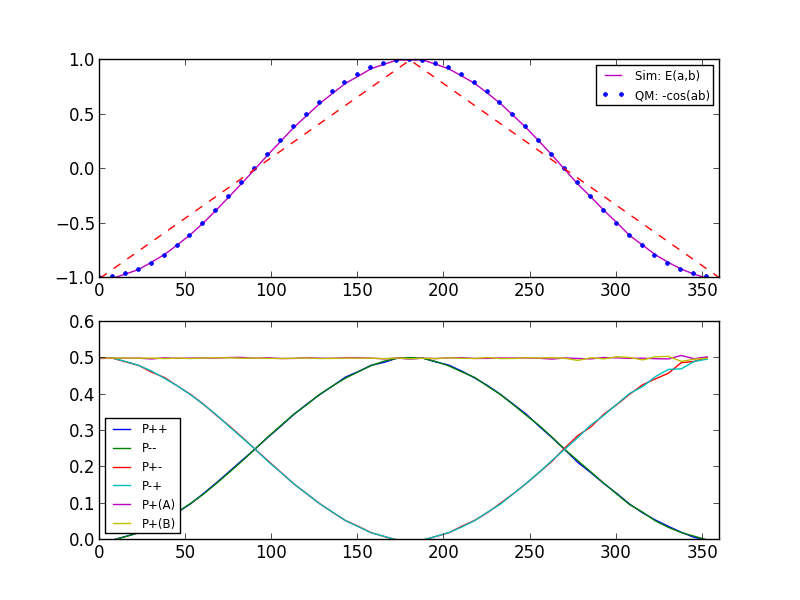
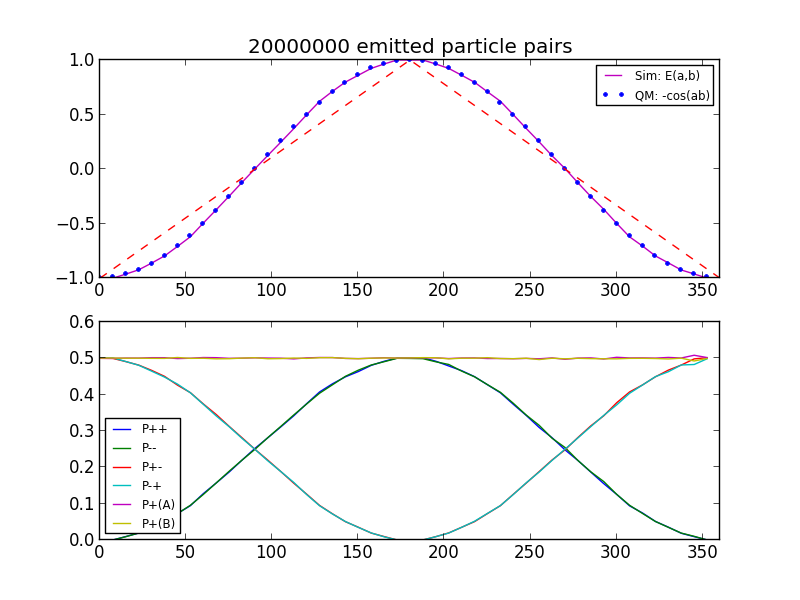
- further improved the p-distribution

diff --git a/epr.py b/epr.py
@@ -11,7 +11,8 @@ rcParams['legend.isaxes'] = False
 rcParams['figure.facecolor'] = 'white'
 rcParams['figure.edgecolor'] = 'white'
 
-NUM_ITERATIONS = 20000000
+NUM_ITERATIONS = 50000000
+MAX_ANGLE = 360.0
 ANGLE_RESOLUTION = 7.5
 
 class Source(object):
@@ -21,7 +22,8 @@ class Source(object):
         self.phase = self.spin*2*numpy.pi
         self.n = 2*self.spin
         self.angles = numpy.radians(numpy.arange(0, 360.0, ANGLE_RESOLUTION))  # pre-calculate angles to choose from 
-        self.ps = numpy.linspace(0, numpy.pi/4, 1000)**(numpy.pi/2) # pre-calculate p-values to choose from 
+        #self.ps = numpy.linspace(0, numpy.pi/4, 1000)**(numpy.pi/2) # pre-calculate p-values to choose from
+        self.ps = 0.5*numpy.sin(numpy.linspace(0, numpy.pi/2, 1000))**2 # alternate p-distribution
         
     def emit(self):
         e = numpy.random.choice(self.angles) # pick one of the angles randomly 
@@ -38,7 +40,7 @@ class Station(object):
         self.results = numpy.empty((NUM_ITERATIONS, 2))  # columns: angle, +1/-1/0 outcome        
         self.properties = numpy.empty((NUM_ITERATIONS, 2)) # columns: e, p
         self.count = 0
-        self.angles = numpy.radians(numpy.arange(0, 360.0, ANGLE_RESOLUTION)) # pre-calculate p-values to choose from
+        self.angles = numpy.radians(numpy.arange(0, MAX_ANGLE, ANGLE_RESOLUTION)) # pre-calculate p-values to choose from
         
     def get_setting(self):
         """Return the current detector setting"""
@@ -117,7 +119,7 @@ class Simulation(object):
         am = abdeg[sl_am]
         bm = abdeg[sl_bm]
         
-        x = numpy.arange(0.0, 360.0, ANGLE_RESOLUTION)
+        x = numpy.arange(0.0, MAX_ANGLE, ANGLE_RESOLUTION)
         ypp = numpy.zeros_like(x)
         ymm = numpy.zeros_like(x)
         ypm = numpy.zeros_like(x)
@@ -179,7 +181,8 @@ class Simulation(object):
         print "Same Angle <AB> = %+0.2f, QM = -1.00" % (ysame)
         print "Oppo Angle <AB> = %+0.2f, QM = +1.00" % (yopp)
         print "CHSH: < 2.0, Sim: %0.3f, QM: %0.3f" % (abs(CHSH[0]-CHSH[1]+CHSH[2]+CHSH[3]), abs(QM[0]-QM[1]+QM[2]+QM[3]))
-        print "Efficiency:  %0.1f %%" % (100.0*sl_dd.sum()/sl_sd.sum())  
+        print "Detector Efficiency:  %0.1f %%" % (100.0*sl_sd.mean())  
+        print "%% Coincidences:  %0.1f %%" % (100.0*sl_dd.sum()/sl_sd.sum())  
           
         gs = gridspec.GridSpec(2,1)
         ax1 = plt.subplot(gs[0])    
@@ -197,8 +200,8 @@ class Simulation(object):
         ax2.plot(x, ybp, label='P+(B)')
         ax2.legend()
         
-        for ax in [ax1, ax2]:  ax.set_xlim(0, 360)
-
+        for ax in [ax1, ax2]:  ax.set_xlim(0, MAX_ANGLE)
+        ax1.set_title('%d emitted particle pairs' % NUM_ITERATIONS)
         plt.savefig('epr.png', dpi=100)
         plt.show()
 

diff --git a/internals.py b/internals.py
@@ -113,8 +113,8 @@ def analyse():
     print "Same Angle <AB> = %+0.2f, QM = -1.00" % (ysame)
     print "Oppo Angle <AB> = %+0.2f, QM = +1.00" % (yopp)
     print "CHSH: < 2.0, Sim: %0.3f, QM: %0.3f" % (abs(CHSH[0]-CHSH[1]+CHSH[2]+CHSH[3]), abs(QM[0]-QM[1]+QM[2]+QM[3]))
-    print "Efficiency:  %0.1f %%" % (100.0*sl_dd.sum()/sl_sd.sum())  
     print "Detector Efficiency:  %0.1f %%" % (100.0*sl_sd.mean())  
+    print "%% Coincidences:  %0.1f %%" % (100.0*sl_dd.sum()/sl_sd.sum())  
             
     gs = gridspec.GridSpec(3,2)
     ax1 = plt.subplot(gs[0,:])    
@@ -133,8 +133,9 @@ def analyse():
     ax2.legend()
     
     ax3 =  plt.subplot(gs[1,1])       
-    ax3.plot(x, coinc, 'b--', label='% Coincidence')
-    ax3.plot(x, geff, 'r--', label='% Detector Efficiency')
+    ax3.plot(x, 100*coinc, 'b--', label='% Coincidence')
+    ax3.plot(x, 100*geff, 'r--', label='% Detector Efficiency')
+    ax3.set_ylim(0,105)
     ax3.legend()
     
     ax4 = plt.subplot(gs[2,:])

diff --git a/README.md b/README.md
@@ -7,11 +7,14 @@ How it works:
 ------------
 The simulation consists of a Source object, generating particle pairs, to be analyzed at 2 Detection stations. The maths of the model can be summarized as:  
 
-        λ = {e, p, s},  e ∈ [0..2π), p ∈ [0..π/4), s = {1/2, 1}
+        λ = {e, p, s},  e ∈ [0..2π), s = {1/2, 1}
+        p =  ½ sin²x, x ∈ [0..π/2)
         e' = e + 2πs
-        A(a,λ) = sign(-1ⁿ cos n(a − e)) if |cos n(a − e)| > pᵏ, 0 otherwise
-        B(b,λ) = sign(-1ⁿ cos n(b − e')) if |cos n(b − e')| > pᵏ, 0 otherwise
-        where n = 2s, k=π/2
+        A(a,λ) = sign(-1ⁿ cos n(a − e)) if |cos n(a − e)| > p, 0 otherwise
+        B(b,λ) = sign(-1ⁿ cos n(b − e')) if |cos n(b − e')| > p, 0 otherwise
+        where n = 2s
+        
+        Alternatively,  p = xᵏ, x ∈ [0..π/4), k=π/2 also works well.
 
 1) The Source, and Particles:
 
@@ -20,8 +23,8 @@ The source has a single parameter `spin (s)` which determines the type of partic
 
 A particle pair is generated as follows:  
 
-    `e` - an angle common to both particles selected randomly each time from the range [0, 2pi)
-    `p` - a property common to both particles selected randomly from [0, π/4)
+    `e` - an angle common to both particles selected randomly each time from the range [0, 2π)
+    `p` - a property common to both particles selected randomly from the distribution `½ sin²x, x ∈ [0..π/2)`
     
 The left particle is the tuple `(e, p, n)`
 The right particle is the tuple `(e + 2πs, p, n)`
@@ -38,8 +41,9 @@ The detection at each station proceeds as follows:
       ultimately determine which channel the particle will be detected at; `+1` or `-1`
     - The absolute value of `C` together with the particle property `p` will determine 
       if the particle goes through the filter.
-      If `|C|` > p^π/2 the particle goes through. Every particle which goes through the 
+      If `|C| > p` the particle goes through. Every particle which goes through the 
       filter is detected by one of the two channels.
+      
     - The setting `x` and the output (`+1`, `-1`, or `0`) are registered locally at each station
       and saved in separate files at the end of the simulation. Each station is not aware of and 
       uses no information from or about the other station. 
@@ -70,14 +74,14 @@ From these probabilities we can calcualte the Expectation value:
 
 The results are then plotted for every angle pair (a,b) in the range [0, 2π). A sample plot after 50,000,000 iterations is shown in `epr.png`. The output for the Bell-test angles (0, 22.5, 45, 67.5) are shown below:  
     
-    <a1b1>: E(  0.0, 22.5), AB=-0.92, QM=-0.92
-    <a2d2>: E(  0.0, 67.5), AB=-0.39, QM=-0.38
-    <c3b3>: E( 45.0, 22.5), AB=-0.92, QM=-0.92
-    <c4d4>: E( 45.0, 67.5), AB=-0.92, QM=-0.92
+<a1b1>: E(  0.0, 22.5), AB=-0.92, QM=-0.92
+<a2d2>: E(  0.0, 67.5), AB=-0.39, QM=-0.38
+<c3b3>: E( 45.0, 22.5), AB=-0.92, QM=-0.92
+<c4d4>: E( 45.0, 67.5), AB=-0.93, QM=-0.92
 
-    Same Angle <AB> = -1.00, QM = -1.00
-    Oppo Angle <AB> = +1.00, QM = +1.00
-    CHSH: <= 2.0, Sim: 2.380, QM: 2.389
+Same Angle <AB> = -1.00, QM = -1.00
+Oppo Angle <AB> = +1.00, QM = +1.00
+CHSH: <= 2.0, Sim: 2.381, QM: 2.389
 
 
 Notes:
